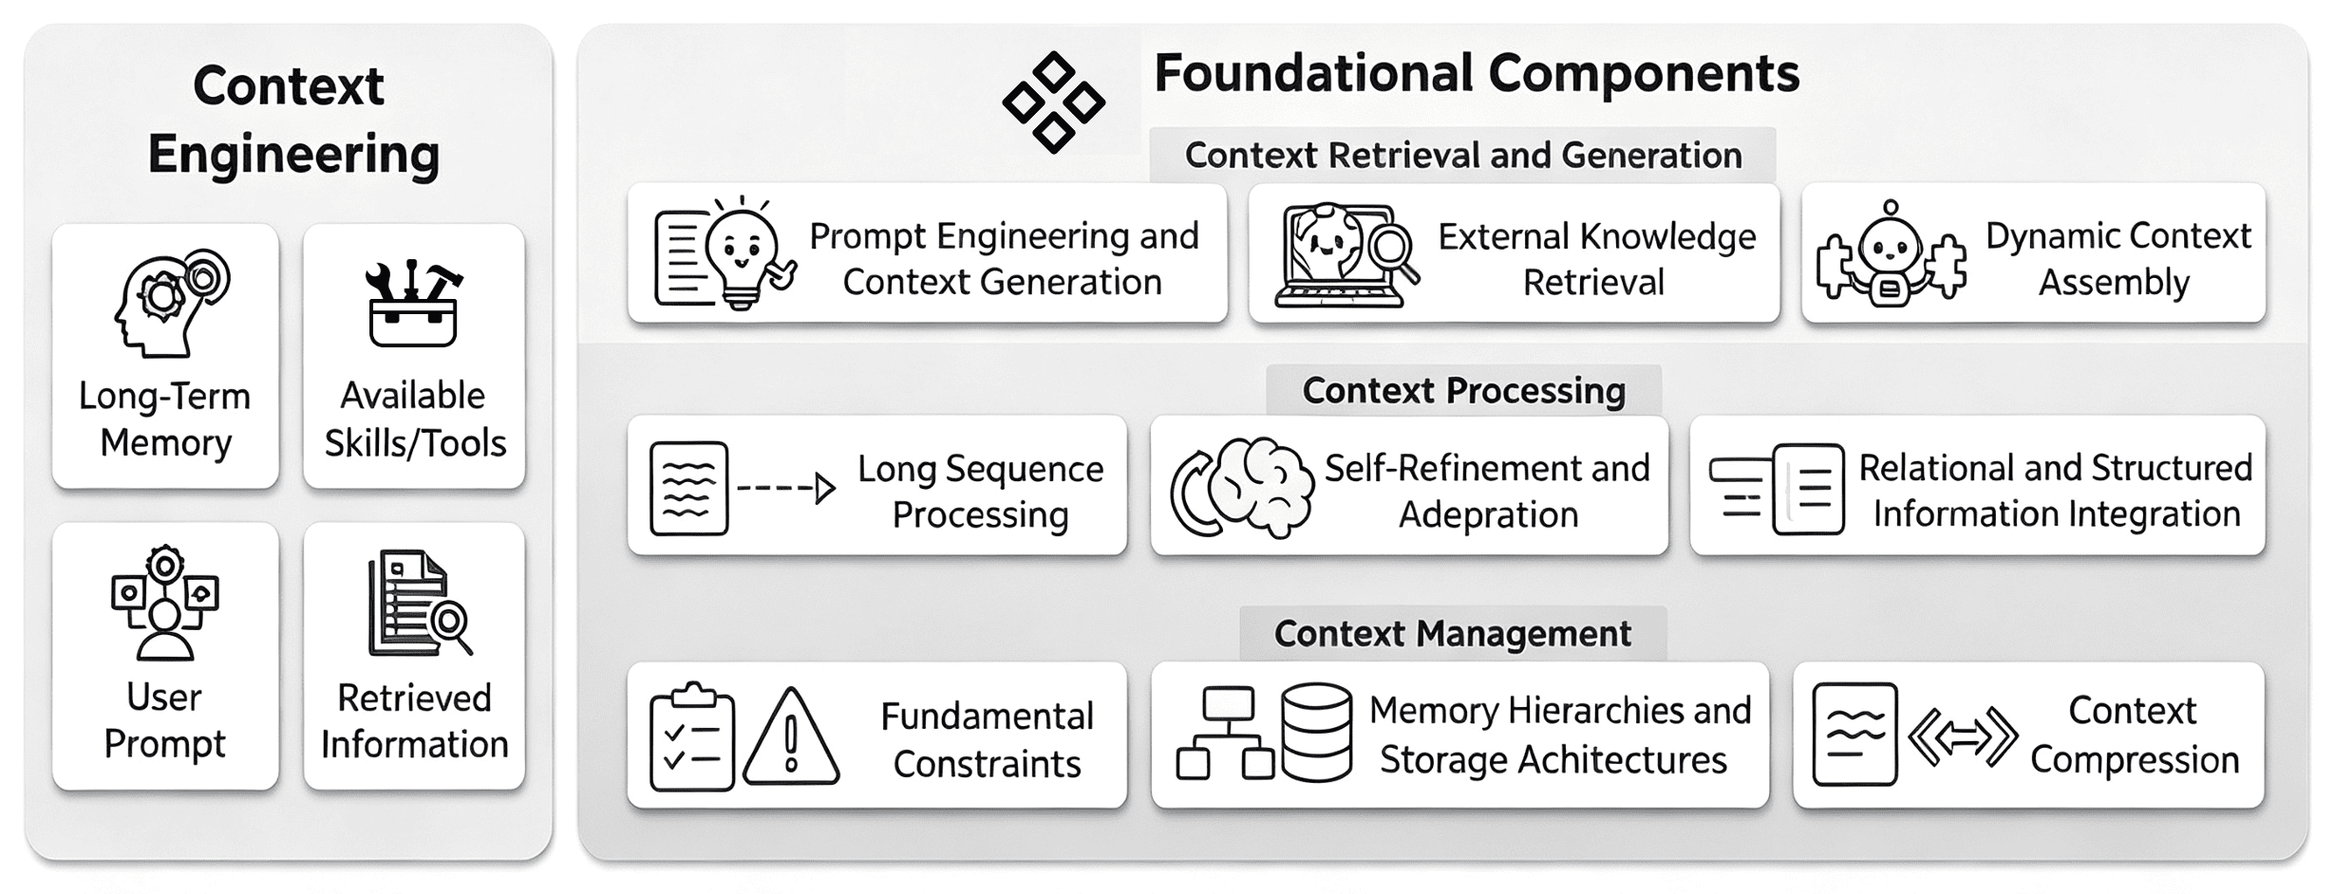
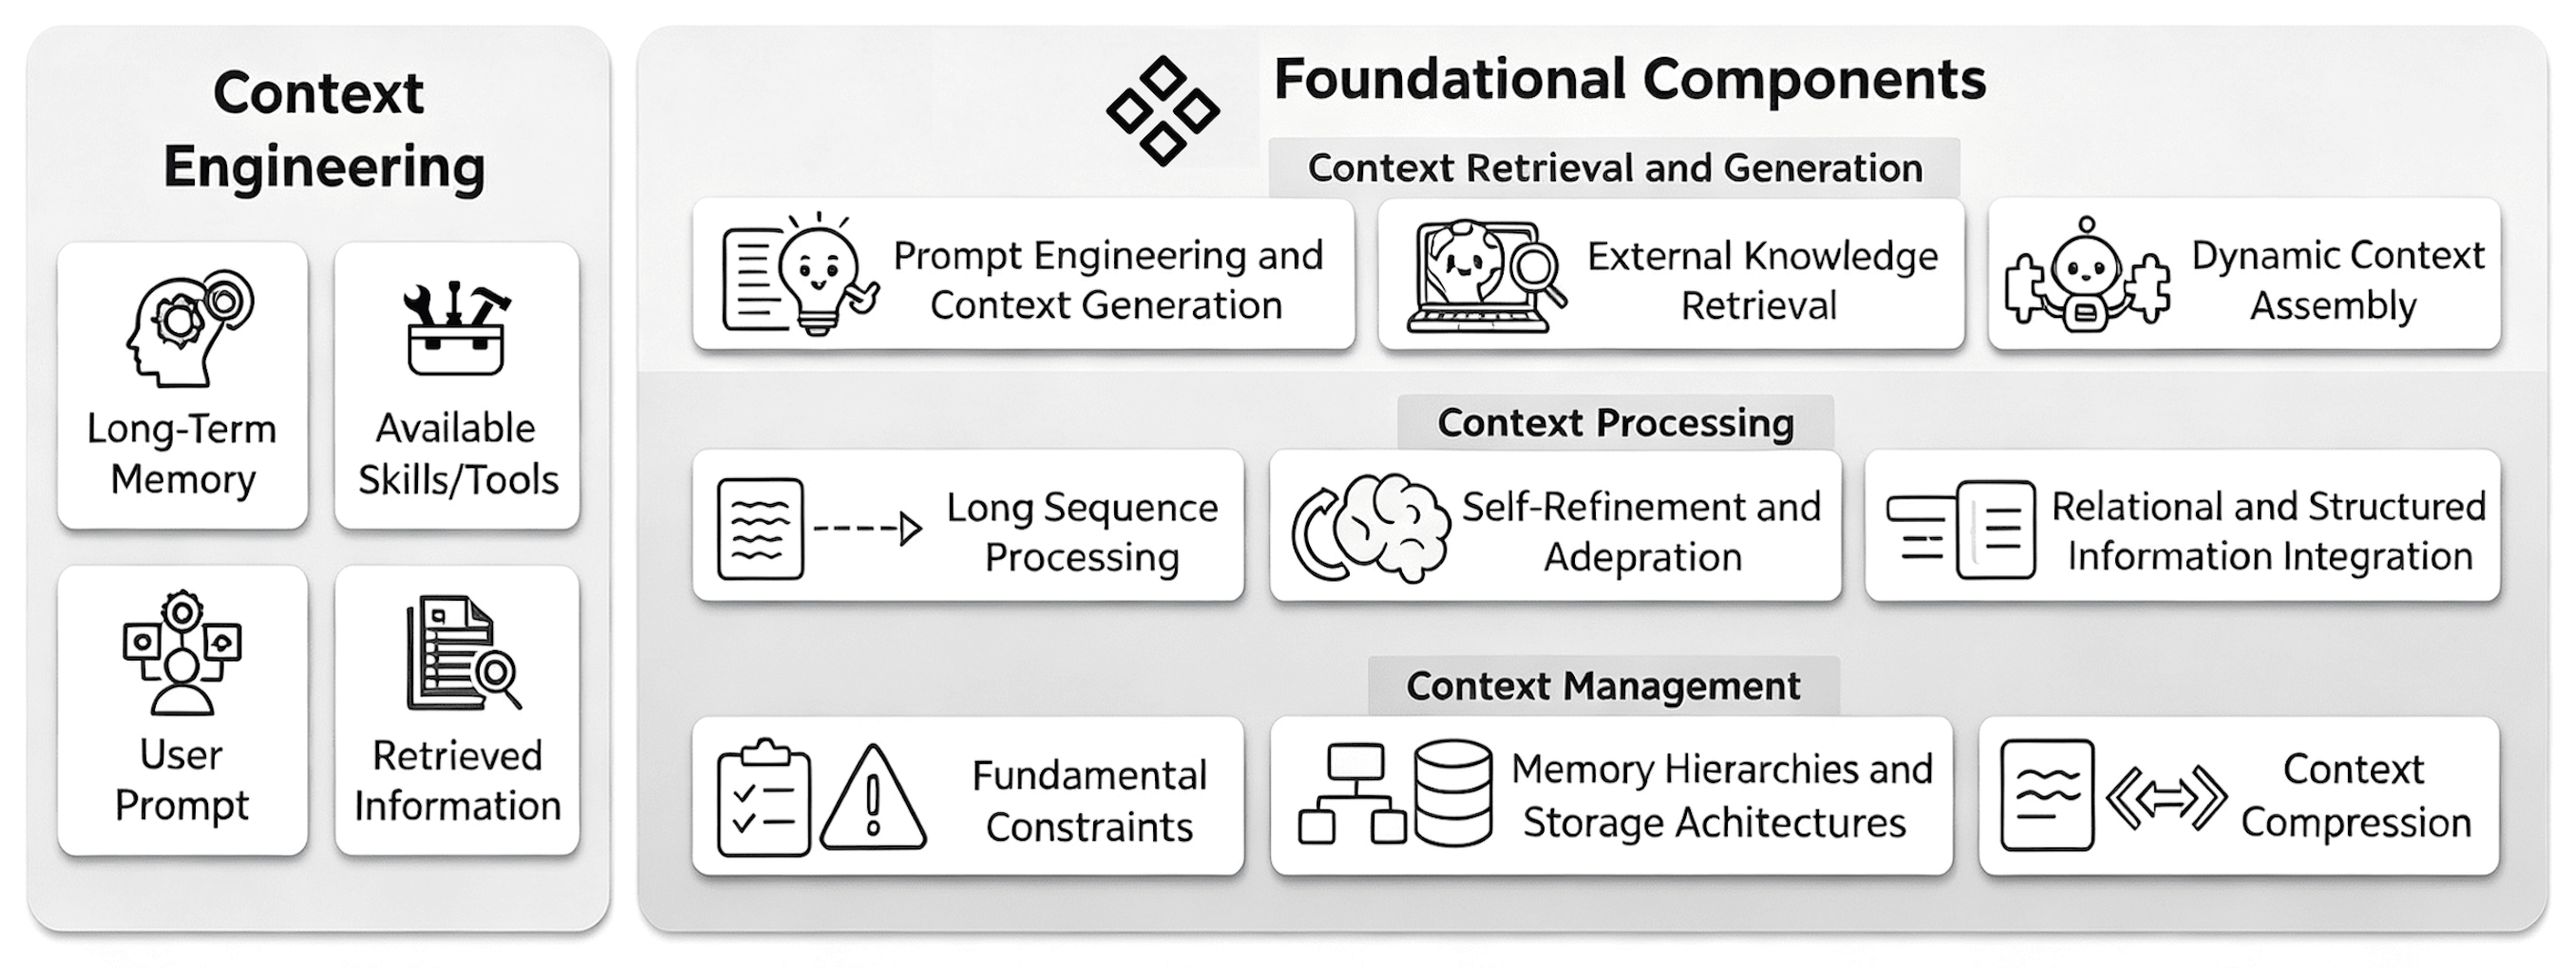
fix

diff --git a/publications.html b/publications.html
@@ -133,7 +133,7 @@
       </button>
       
       <button aria-pressed="false" class="publication-filter" data-filter="ml4co" type="button">
-       ML4Comb
+       ML4Co
       </button>
 
       <button aria-pressed="false" class="publication-filter" data-filter="ai4db" type="button">
@@ -209,7 +209,7 @@
         </li>
         
        <li class="publication-item" data-id="pub-preprint-003" data-tags="ce">
-        <div class="publication-title"> <a href="https://arxiv.org/pdf/2311.08734.pdf" rel="noopener noreferrer" target="_blank"> Thread of thought unraveling chaotic contexts </a> </div>
+        <div class="publication-title"> <a href="https://arxiv.org/pdf/2311.08734.pdf" rel="noopener noreferrer" target="_blank"> Thread of Thought Unraveling Chaotic Contexts </a> </div>
         <div class="publication-authors"> Yucheng Zhou, Xiubo Geng, Tao Shen, <strong>Chongyang Tao</strong>, Guodong Long, Jianguang Lou. </div>
         <div class="publication-venue"> In <em> arxiv </em> <b> (2023) </b> , 2023.11. </div>
         </li>
@@ -231,21 +231,21 @@
         
        <li class="publication-item" data-id="pub-2026-009" data-tags="rm">
         <div class="publication-title"> <a href="https://openreview.net/pdf?id=jjHZnkDk5l" rel="noopener noreferrer" target="_blank"> AIR: Post-training Data Selection for Reasoning via Attention Head Influence </a> </div>
-        <div class="publication-authors"> Jinrui Liu, Kai Hua, Xuanguang Pan, Ge Zhang, Yong Wang, Shuai Ma, <strong>Chongyang Tao</strong> . </div>
+        <div class="publication-authors"> Jinrui Liu, Kai Hua, Xuanguang Pan, Ge Zhang, Yong Wang, Shuai Ma, <strong>Chongyang Tao</strong>. </div>
         <div class="publication-venue"> In <em> Proceedings of Forty-third International Conference on Machine Learning </em> <b> (ICML 2026) </b> , Seoul, South Korea, 2026.07. </div>
         <div class="publication-links"> <a href="https://github.com/AbigFirewood/AIR-ICML26" rel="noopener noreferrer" target="_blank"> [Code] </a> </div>
         </li>
         
        <li class="publication-item" data-id="pub-2026-010" data-tags="ml4co">
         <div class="publication-title"> <a href="https://openreview.net/pdf?id=LDNH3sQtMW" rel="noopener noreferrer" target="_blank"> Dynamic Stratified Contrastive Learning with Upstream Augmentation for MILP Branching </a> </div>
-        <div class="publication-authors"> Tongkai Lu, Shuai Ma, <strong>Chongyang Tao</strong> . </div>
+        <div class="publication-authors"> Tongkai Lu, Shuai Ma, <strong>Chongyang Tao</strong>. </div>
         <div class="publication-venue"> In <em> Proceedings of Forty-third International Conference on Machine Learning </em> <b> (ICML 2026) </b> , <b style="color:red"> (Spotlight, 2.2%) </b> , Seoul, South Korea, 2026.07. </div>
         <div class="publication-links"> <a href="https://github.com/lutk3029/SC-MILP" rel="noopener noreferrer" target="_blank"> [Code] </a> </div>
         </li>
         
        <li class="publication-item" data-id="pub-2026-011" data-tags="ml4co">
         <div class="publication-title"> <a href="https://openreview.net/pdf?id=YdQq7DvUfI" rel="noopener noreferrer" target="_blank"> Unsat Core Prediction through Polarity-Aware Representation Learning over Clause-Literal Hypergraphs </a> </div>
-        <div class="publication-authors"> Zhenchao Sun, Shuai Ma, Ping Lu, <strong>Chongyang Tao</strong> . </div>
+        <div class="publication-authors"> Zhenchao Sun, Shuai Ma, Ping Lu, <strong>Chongyang Tao</strong>. </div>
         <div class="publication-venue"> In <em> Proceedings of Forty-third International Conference on Machine Learning </em> <b> (ICML 2026) </b> , Seoul, South Korea, 2026.07. </div>
         <div class="publication-links"> <a href="https://github.com/sunzc-super/PASAT-ICML" rel="noopener noreferrer" target="_blank"> [Code] </a> </div>
         </li>
@@ -321,7 +321,7 @@
         
        <li class="publication-item" data-id="pub-2026-018" data-tags="ml4co">
         <div class="publication-title"> <a href="https://dl.acm.org/doi/10.1145/3584701" rel="noopener noreferrer" target="_blank"> Empowering Targeted Neighborhood Search via Hyper Tour for Large-Scale TSP </a> </div>
-        <div class="publication-authors"> Tongkai Lu, Shuai Ma, <strong>Chongyang Tao</strong> . </div>
+        <div class="publication-authors"> Tongkai Lu, Shuai Ma, <strong>Chongyang Tao</strong>. </div>
         <div class="publication-venue"> In <em> Frontiers of Computer Science,, </em> <b> (FCS 2026) </b> , 2026.4. </div>
         </li>
        </ul>
@@ -355,7 +355,7 @@
         
        <li class="publication-item" data-id="pub-2025-022" data-tags="event">
         <div class="publication-title"> <a href="https://arxiv.org/pdf/2404.17513.pdf" rel="noopener noreferrer" target="_blank"> A Comprehensive Evaluation on Event Reasoning of Large Language Models </a> </div>
-        <div class="publication-authors"> Zhengwei Tao, Zhi Jin, Yifan Zhang, Xiancai Chen, Xiaoying Bai, Yue Fang, Haiyan Zhao, Jia Li, <strong>Chongyang Tao</strong> . </div>
+        <div class="publication-authors"> Zhengwei Tao, Zhi Jin, Yifan Zhang, Xiancai Chen, Xiaoying Bai, Yue Fang, Haiyan Zhao, Jia Li, <strong>Chongyang Tao</strong>. </div>
         <div class="publication-venue"> In <em> Proceedings of the AAAI Conference on Artificial Intelligence </em> <b> (AAAI 2025) </b> , Pennsylvania, US, 2024.12. </div>
         </li>
         
@@ -433,7 +433,7 @@
         
        <li class="publication-item" data-id="pub-2024-033" data-tags="event">
         <div class="publication-title"> <a href="https://aclanthology.org/2024.findings-acl.528.pdf" rel="noopener noreferrer" target="_blank"> MEEL: Multi-Modal Event Evolution Learning </a> </div>
-        <div class="publication-authors"> Zhengwei Tao, Zhi Jin, Junqiang Huang, Xiancai Chen, Xiaoying Bai, Haiyan Zhao, Yifan Zhang, <strong>Chongyang Tao</strong> . </div>
+        <div class="publication-authors"> Zhengwei Tao, Zhi Jin, Junqiang Huang, Xiancai Chen, Xiaoying Bai, Haiyan Zhao, Yifan Zhang, <strong>Chongyang Tao</strong>. </div>
         <div class="publication-venue"> In <em> Findings of the Annual Meeting of the Association for Computational Linguistics </em> <b> (ACL 2024) </b> , Bangkok, Thailand, 2024.8. </div>
         <div class="publication-links"> <a href="https://github.com/TZWwww/MEEL" rel="noopener noreferrer" target="_blank"> [Code] </a> </div>
         </li>
@@ -525,13 +525,13 @@
         
        <li class="publication-item" data-id="pub-2023-046" data-tags="event">
         <div class="publication-title"> <a href="https://aclanthology.org/2023.acl-long.405.pdf" rel="noopener noreferrer" target="_blank"> UniEvent: Unified Generative Model with Multi-Dimensional Prefix for Zero-Shot Event-Relational Reasoning </a> </div>
-        <div class="publication-authors"> <u> Zhengwei Tao </u> , Zhi Jin, Haiyan Zhao, Chengfeng Dou, Yongqiang Zhao, Tao Shen, <strong>Chongyang Tao</strong> . </div>
+        <div class="publication-authors"> <u> Zhengwei Tao </u> , Zhi Jin, Haiyan Zhao, Chengfeng Dou, Yongqiang Zhao, Tao Shen, <strong>Chongyang Tao</strong>. </div>
         <div class="publication-venue"> In <em> Proceedings of the Annual Meeting of the Association for Computational Linguistics </em> <b> (ACL 2023) </b> , Toronto, Canada, 2023.7. </div>
         </li>
         
        <li class="publication-item" data-id="pub-2023-047" data-tags="event">
         <div class="publication-title"> <a href="https://aclanthology.org/2023.acl-long.405.pdf" rel="noopener noreferrer" target="_blank"> SEAG: Structure-Aware Event Causality Generation </a> </div>
-        <div class="publication-authors"> <u> Zhengwei Tao </u> , Zhi Jin, Xiaoying Bai, Haiyan Zhao, Fang Wang, Chengfeng Dou, Yongqiang Zhao, <strong>Chongyang Tao</strong> . </div>
+        <div class="publication-authors"> <u> Zhengwei Tao </u> , Zhi Jin, Xiaoying Bai, Haiyan Zhao, Fang Wang, Chengfeng Dou, Yongqiang Zhao, <strong>Chongyang Tao</strong>. </div>
         <div class="publication-venue"> In <em> Findings of the Annual Meeting of the Association for Computational Linguistics </em> <b> (ACL 2023) </b> , Toronto, Canada, 2023.7. </div>
         </li>
         
@@ -770,7 +770,7 @@
         
        <li class="publication-item" data-id="pub-2020-081" data-tags="rag">
         <div class="publication-title"> <a href="https://arxiv.org/pdf/2008.12918.pdf" rel="noopener noreferrer" target="_blank"> Zero-Resource Knowledge-Grounded Dialogue Generation </a> </div>
-        <div class="publication-authors"> Linxiao Li, Can Xu, Wei Wu, Yufan Zhao, Xueliang Zhao, <strong>Chongyang Tao</strong> . </div>
+        <div class="publication-authors"> Linxiao Li, Can Xu, Wei Wu, Yufan Zhao, Xueliang Zhao, <strong>Chongyang Tao</strong>. </div>
         <div class="publication-venue"> In <em> Advances in Neural Information Processing Systems </em> <b> (NeurIPS 2020) </b> , 2020.12 </div>
         <div class="publication-links"> <a href="https://github.com/nlpxucan/ZRKGC" rel="noopener noreferrer" target="_blank"> [Code] </a> </div>
         </li>

diff --git a/index.html b/index.html
@@ -83,10 +83,13 @@
 
 <!-- <div class="paragraph" style="text-align: left;"><font color="#508d24" size="5">Biography</font> -->
 <h2><strong>Biography</strong></h2>
-Hi, I am Chongyang Tao, a pre-tenure associate professor in the School of Computer Science and Engineering at Beihang University, working with <a href="https://mashuai-ms.github.io/"target="_blank"> Prof. Shuai Ma</a>. Previously, I was a senior scientist at <a href="https://www.microsoft.com"target="_blank">Microsoft</a>, where I had the privilege of working with <a href="https://sites.google.com/view/wei-wu-homepage/home"target="_blank"> Dr. Wei Wu</a>, <a href="https://scholar.google.com/citations?user=N-wAHCoAAAAJ&hl=zh-CN"target="_blank"> Dr. Daxin Jiang</a>, Dr. Xiubo Geng and <a href="https://scholar.google.com/citations?user=alDxINIAAAAJ&hl=en"target="_blank"> Dr. Jian-guang Lou</a> on projects such as Microsoft Xiaoice, ChatwithBING, the Bing Retrieval/Generative Model, and WizardLM. I received my Ph.D. degree from <a href="https://www.pku.edu.cn/"target="_blank">Peking University</a> in 2020, under the supervision of <a href="https://www.wict.pku.edu.cn/zhaodongyan/"target="_blank"> Prof. Dongyan Zhao</a>, and the B. Eng degree from Sichuan University in 2015.
+Hi, I am Chongyang Tao, an associate professor in the School of Computer Science and Engineering at Beihang University, working with <a href="https://mashuai-ms.github.io/"target="_blank"> Prof. Shuai Ma</a>. Previously, I was a senior scientist at <a href="https://www.microsoft.com"target="_blank">Microsoft</a>, where I had the privilege of working with <a href="https://sites.google.com/view/wei-wu-homepage/home"target="_blank"> Dr. Wei Wu</a>, <a href="https://scholar.google.com/citations?user=N-wAHCoAAAAJ&hl=zh-CN"target="_blank"> Dr. Daxin Jiang</a>, Dr. Xiubo Geng and <a href="https://scholar.google.com/citations?user=alDxINIAAAAJ&hl=en"target="_blank"> Dr. Jian-guang Lou</a> on projects such as Microsoft Xiaoice, ChatwithBING, the Bing Retrieval/Generative Model, and WizardLM. I received my Ph.D. degree from <a href="https://www.pku.edu.cn/"target="_blank">Peking University</a> in 2020, under the supervision of <a href="https://www.wict.pku.edu.cn/zhaodongyan/"target="_blank"> Prof. Dongyan Zhao</a>, and the B. Eng degree from Sichuan University in 2015.
 <br>
 <br>
-My research lie in natural language processing, LLM and data intelligence.
+My research lie in NLP, LLM and data intelligence.
+I have published over 100 papers in prestigious conferences and journals such as ACL, EMNLP, ICLR, NeurIPS, SIGIR, KDD, and TOIS. My work has been recognized with the PaperDigest Most Influential ICLR 2024/2025 Paper and NLPCC Outstanding Paper Award. I have also served as an Area Chair or Senior Program Committee member for ACL ARR, KDD, WWW, EMNLP, CCKS, and other major conferences.
+I have led research projects funded by the NSFC, CIE, CAAI and other leading enterprises. I was selected as a Beihang “Outstanding Young Scholar” and have been recognized as an AI 2000 Scholar by Aminer.
+<br>
 <!-- especially in deep learning models with their applications in dialogue systems, data intelligence, effective and generalizable IR.   -->
 <!-- More specifically, my research interests center on understanding complex user inputs in human-machine interaction and seeking relevant knowledge from various data sources based on these inputs. -->
 <!-- More specifically, my research vision centers on flexibly and effectively ushering humans into the world of both structured and unstructured knowledge through natural language. This entails understanding complex user intents in human–machine intelligence and retrieving, reasoning over, and synthesizing knowledge from diverse data sources based on those inputs. -->
@@ -110,7 +113,7 @@ I have led research projects funded by the NSFC, CIE, CAAI and other leading ent
   </div>
 
   <div class="research-area-grid">
-    <article class="research-area-card research-area-card--evaluation"><div class="research-area-visual"><img src="files/rm2.png" alt="Reward Model diagram"></div><div class="research-area-body"><h3>Reward Model (Evaluation)</h3><p>Learning interpretable and generalizable evaluation signals from human preferences, process feedback, and task objectives to make model training and inference more reliable.</p><div class="research-area-keywords">Preference · Reward · Reliability</div></div></article>
+    <article class="research-area-card research-area-card--evaluation"><div class="research-area-visual"><img src="files/rm2.png" alt="Reward Model diagram"></div><div class="research-area-body"><h3>Reward Model (Evaluation)</h3><p>Learning interpretable and generalizable evaluation signals from human preferences, process feedback, and task objectives to make model training and inference more reliable.</p><div class="research-area-keywords">Preference · Reward · Test-Time Scaling</div></div></article>
 
     <article class="research-area-card research-area-card--context"><div class="research-area-visual"><img src="files/ce2.png" alt="Context Engineering diagram"></div><div class="research-area-body"><h3>Context Engineering</h3><p>Designing how context, memory, and external knowledge are selected, organized, and dynamically composed so models receive the right state for complex tasks.</p><div class="research-area-keywords">Memory · Retrieval · Orchestration</div></div></article>
     

diff --git a/files/main_style.css b/files/main_style.css
@@ -11,7 +11,7 @@
  h1, h2, h3 { font-weight: bold; font-family: Helvetica, Arial, sans-serif; }
  h1 { font-size: 36px; }
  h2 { font-size: 20px; color: #8DC919; background-color: #ffffff; padding: .3em 0; }
- h3 { font-size: 1.0em; text-transform: uppercase; }
+ h3 { font-size: 1.0em; text-transform: none; }
  #container { width: 770px; margin: 0 auto; padding-top: 15px; }
  #content_box { width: 770px; text-align: left; float: left; clear: both; line-height: 1.5; }
  #content_box { font-size: 14px; line-height: 1.5; }
@@ -68,7 +68,7 @@
  #header-right .wsite-search-input { width: 156px; height: 26px; border: none; padding: 0 7px 0 7px !important; color: #010101; font-size: 12px; background: url(theme/input-bg.jpg?1404312959) no-repeat; }
  #header-right .wsite-search-button { position: relative; width: 35px; height: 26px; border: none; cursor: pointer; background: url(theme/submit.jpg?1404312959) no-repeat; }
  #nav ul { font-family: Arial; list-style: none; width: 770px; background: url('theme/hr_dot_black.gif?1404312959') repeat-x; padding: 1px 0 0 0; border-bottom: 3px solid #000; float: left; clear: both; }
- #nav ul li { padding: 0 16px 0 0; font: bold 1.4em Helvetica, Arial, sans-serif; text-transform: uppercase; float: left; }
+ #nav ul li { padding: 0 16px 0 0; font: bold 1.4em Helvetica, Arial, sans-serif; text-transform: none; float: left; }
  #nav ul li a { float: left; height: 37px; line-height: 37px; padding: 0 12px; color: #838383; background-color: #ffffff; text-decoration: none; }
  #nav ul li a:hover, #nav ul li#active a { color: #8DC919; background-color: #f8f8f8; text-decoration: none; }
  #wsite-menus .wsite-menu li a { border: none; border-left: none; border-right: none; border-bottom: 1px solid #dbdbdb; background: #f8f8f8; color: #555555; padding: 5px 8px 5px 12px; }
@@ -476,7 +476,7 @@ hr { border: 0; }
 .research-area-visual {
   display: flex;
   align-items: center;
-  aspect-ratio: 16 / 8;
+  aspect-ratio: 16 / 6;
   padding: 0;
   background: linear-gradient(135deg, var(--accent-strong), #1d5b58);
 }
@@ -690,7 +690,7 @@ hr { border: 0; }
 
 .publication-title {
   margin-bottom: 7px;
-  font-size: 16px;
+  font-size: 14px;
   line-height: 1.35;
   font-weight: 750;
 }
@@ -830,7 +830,7 @@ hr { border: 0; }
     display: block;
     width: 100%;
   }
-  
+
 h2.section-title,
   .research-areas-heading h2 {
     display: block;
